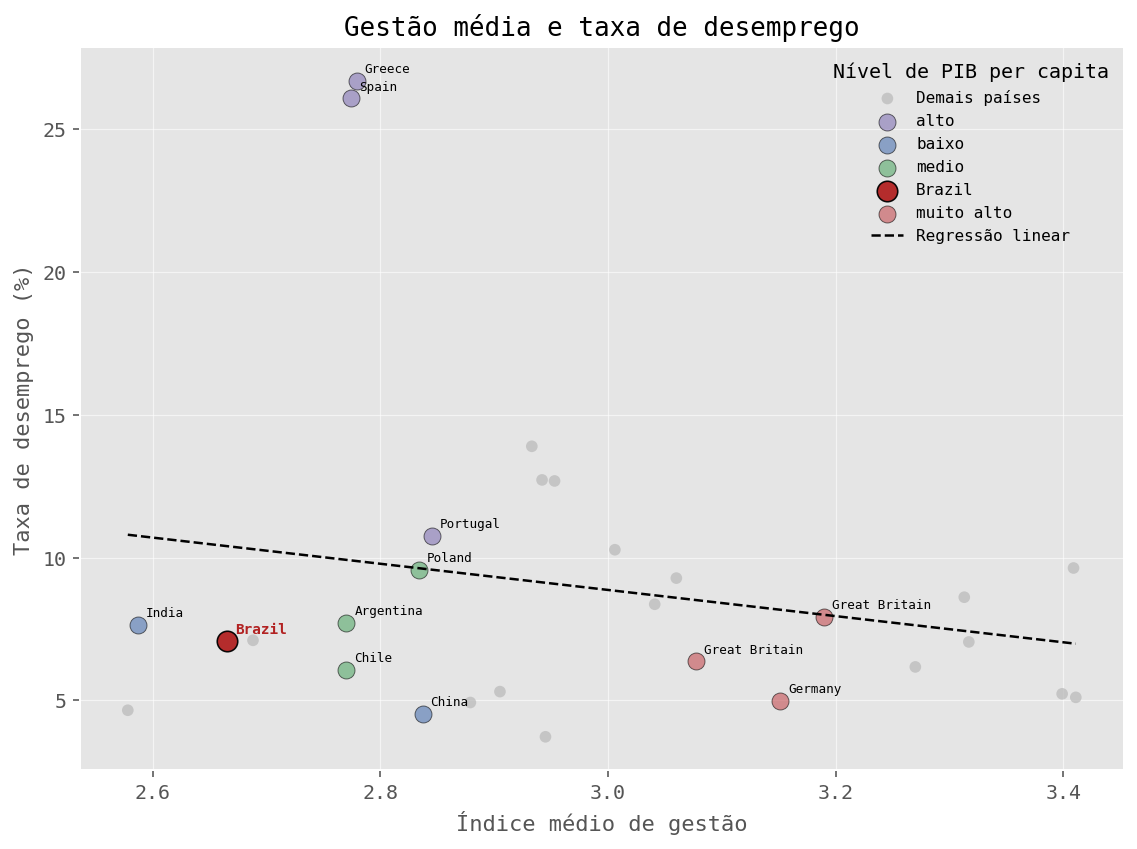
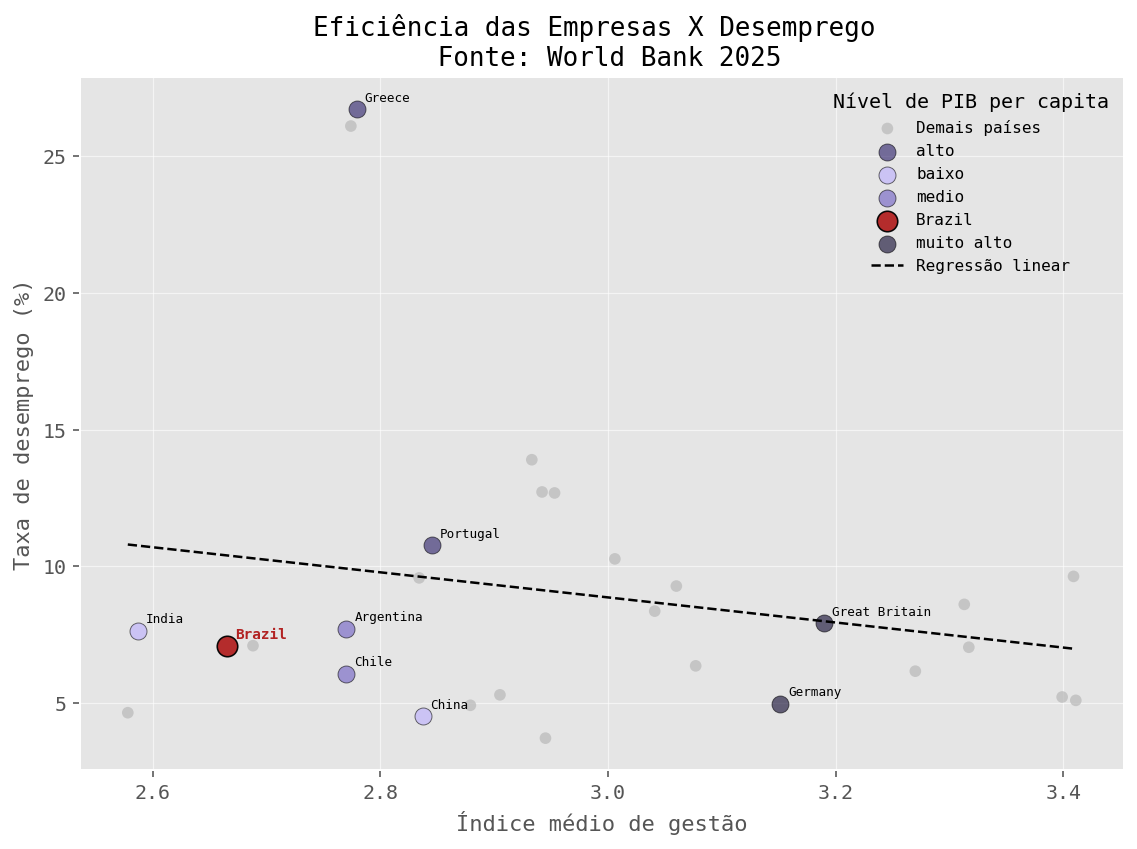
Trabalho 98% feito

diff --git a/Regressoes.py b/Regressoes.py
@@ -150,7 +150,7 @@ def rodar_modelo_management_macro(
         base_representativa
         .sort_values(["nível_pib_per_capita", "dist_mediana_grupo"])
         .groupby("nível_pib_per_capita", group_keys=False)
-        .head(3)
+        .head(2)
         .copy()
     )
 
@@ -177,10 +177,10 @@ def rodar_modelo_management_macro(
     # ------------------------------------------------------------
 
     cores_grupos = {
-        "baixo": "#4C72B0",
-        "medio": "#55A868",
-        "alto": "#8172B3",
-        "muito alto": "#C44E52",
+        "baixo": "#bbadff",
+        "medio": "#6c5bc2",
+        "alto": "#261a66",
+        "muito alto": "#0a032b",
         "sem_classificacao": "#999999"
     }
 